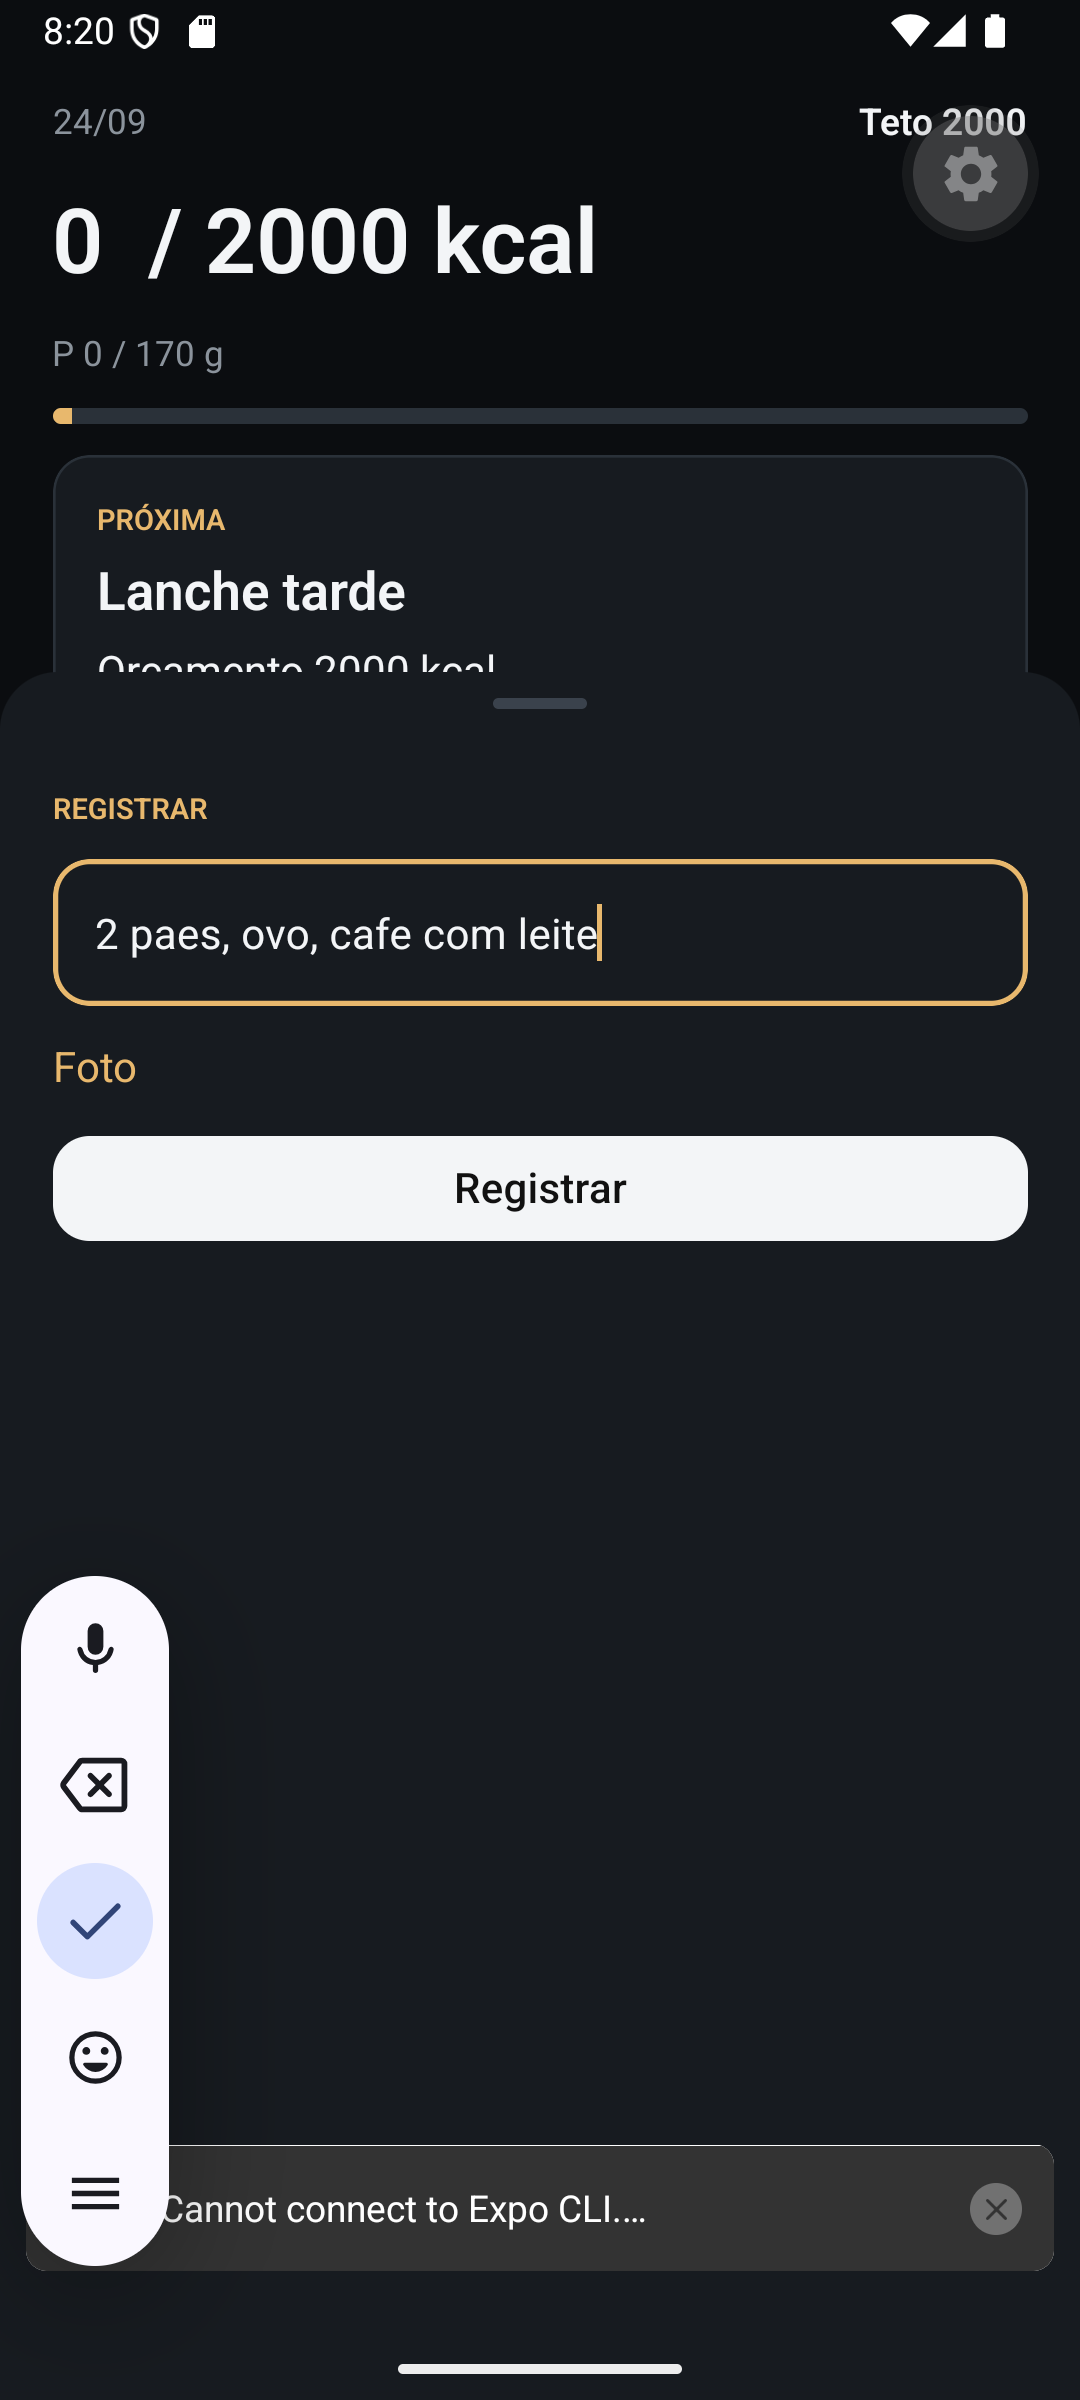
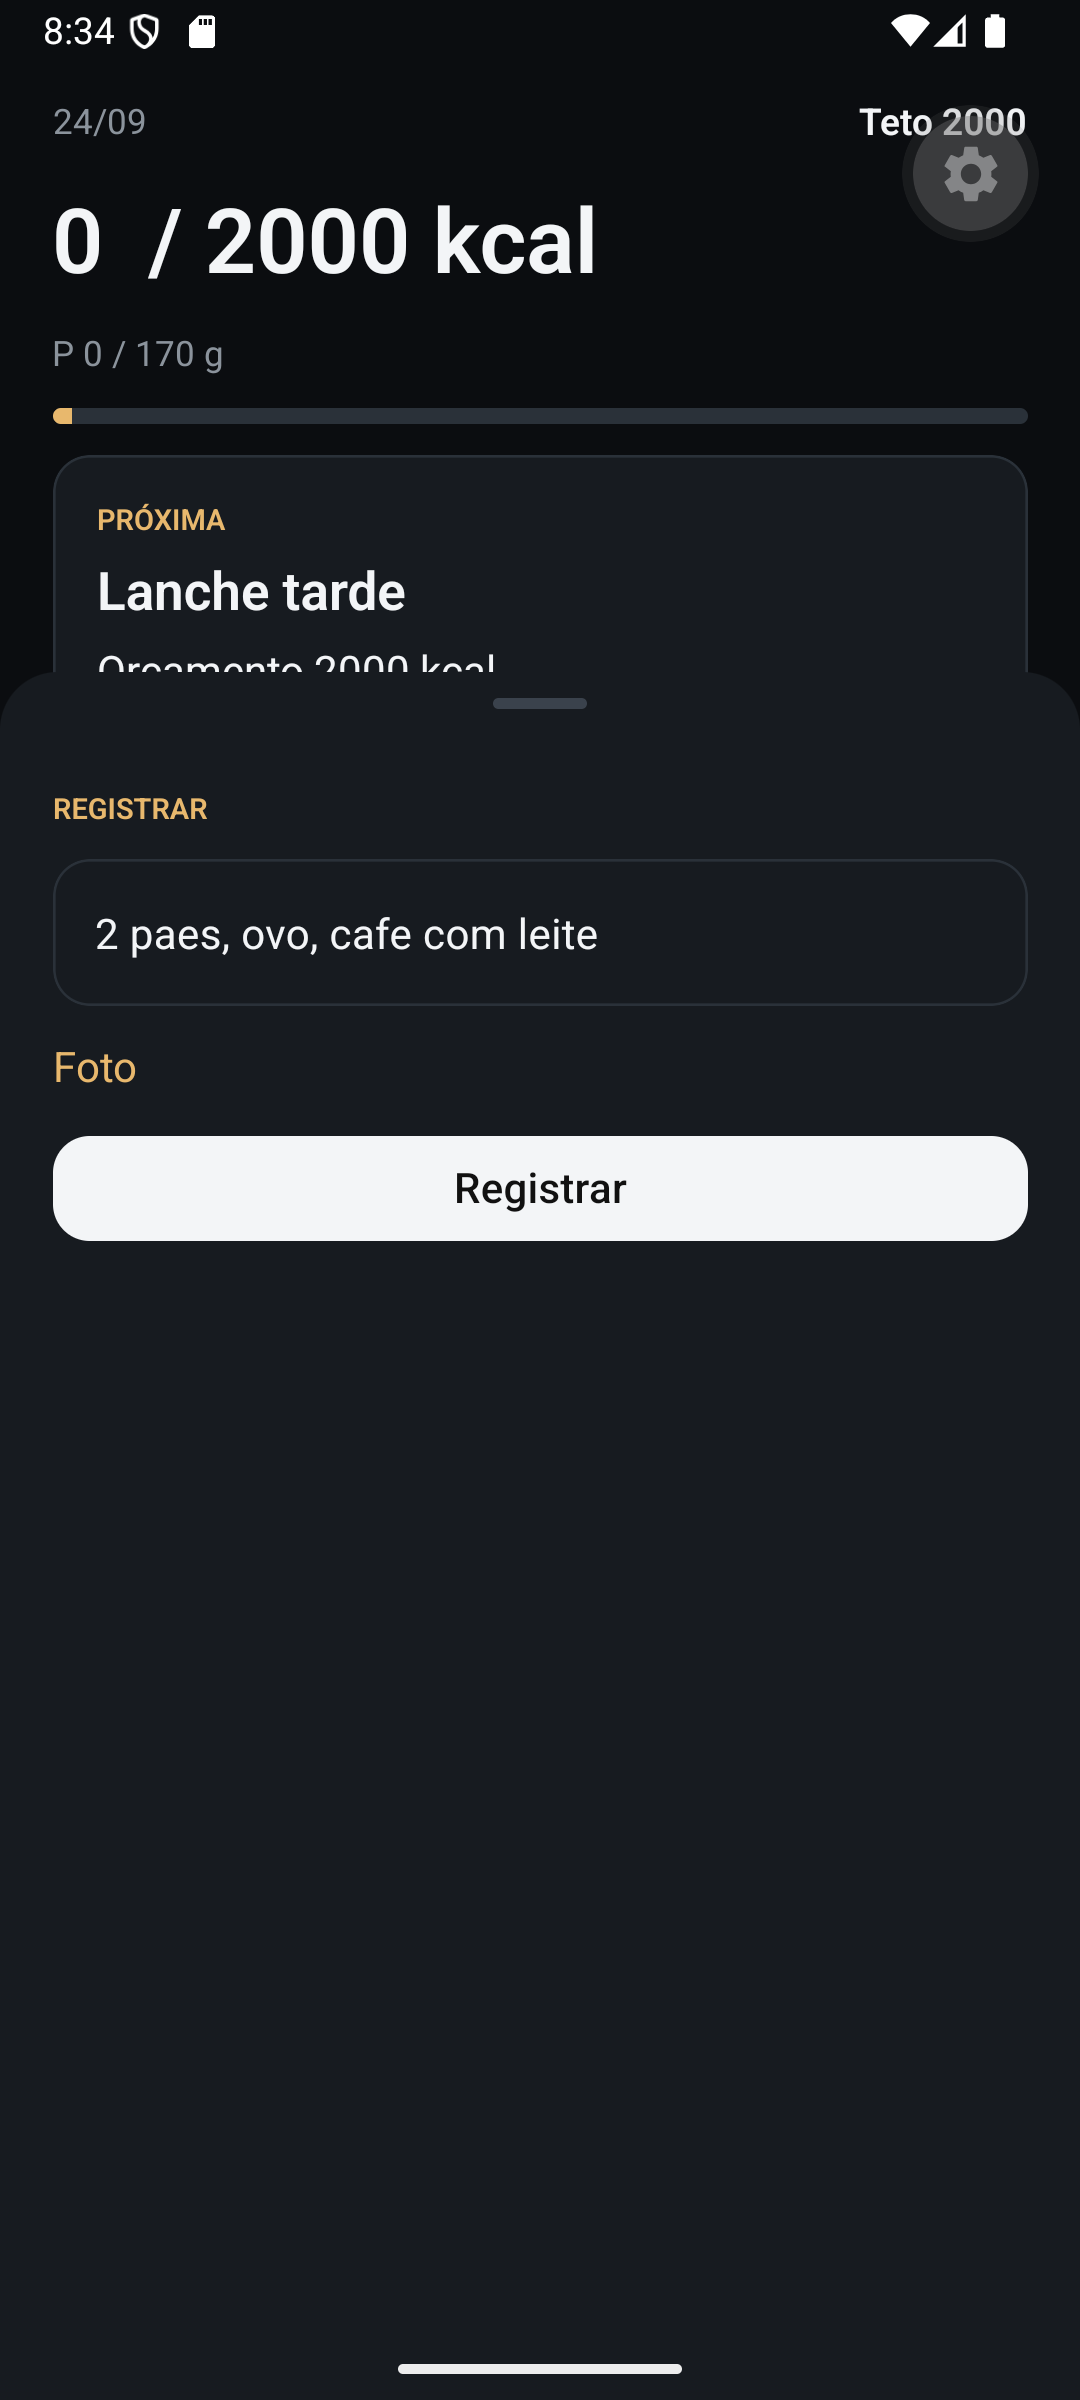
fix: capturas do registrar e do card sem o aviso do expo

diff --git a/apps/rn/src/features/Sheets.tsx b/apps/rn/src/features/Sheets.tsx
@@ -1,5 +1,5 @@
 import { useRef } from "react";
-import { StyleSheet, Text, View } from "react-native";
+import { Keyboard, Pressable, StyleSheet, Text, View } from "react-native";
 import BottomSheet, { BottomSheetView } from "@gorhom/bottom-sheet";
 import { TextInput } from "react-native-paper";
 
@@ -66,7 +66,9 @@ export function Folhas(props: Props) {
 function Registro(props: Props) {
   return (
     <View style={estilos.col} accessibilityLabel="registrar">
-      <Text style={estilos.kicker}>REGISTRAR</Text>
+      <Pressable onPress={() => Keyboard.dismiss()} accessibilityLabel="REGISTRAR">
+        <Text style={estilos.kicker}>REGISTRAR</Text>
+      </Pressable>
       <TextInput
         mode="outlined"
         value={props.texto}
